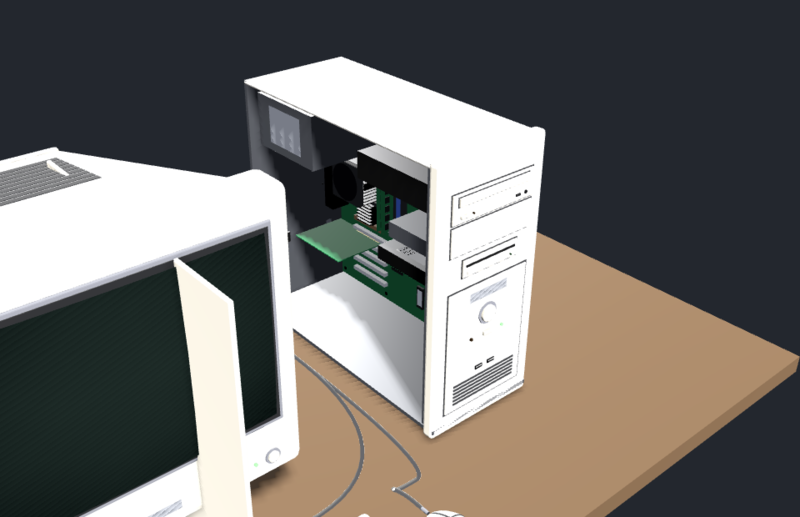
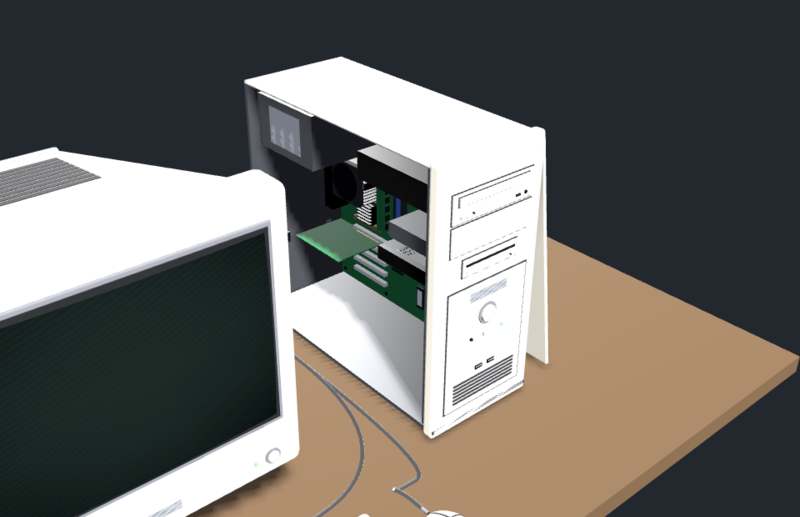
3D: the PC's side comes off away from the monitor
Opening the case slid the side panel 35 cm sideways, into the monitor
standing next to it. Now it comes off its hooks, goes up over the case
and leans against the other side, and goes back the same way. The
server's lid still slides back.

diff --git a/docs/architecture/hardware.md b/docs/architecture/hardware.md
@@ -179,7 +179,9 @@ ports as the NICs (eth0, WAN/LAN1-4, port1-8), `led_*`, `btn_power`,
   slots, a memory module per 256 MB, a disk model per hard disk (IDE or SCSI
   by the disk's model) with its label printed, the CPU cooler. The server's
   case is built from parts: the mainboard lying flat, two power supplies, the
-  disks in the front bays; its lid slides back. Every part says what it is
+  disks in the front bays; its lid slides back. The PC's side comes off,
+  goes over the case and leans against its other side, away from the
+  monitor. Every part says what it is
   under the mouse (disk with device and channel, card with MAC and PCI
   address, memory slot, CPU, power supply, mainboard and CMOS state).
 - The monitor, keyboard and mouse are cabled to the box's back. Each cable

diff --git a/docs/ROADMAP.md b/docs/ROADMAP.md
@@ -5,7 +5,7 @@ queue is the project owner's; change it here when it changes. When a step is
 done, move it to [Done](#done) with its commits, and record what was left out
 in [simplifications](reference/simplifications.md).
 
-Current state: 1305 checks in the test suite, all green.
+Current state: 1307 checks in the test suite, all green.
 
 ## Now: remote work
 
